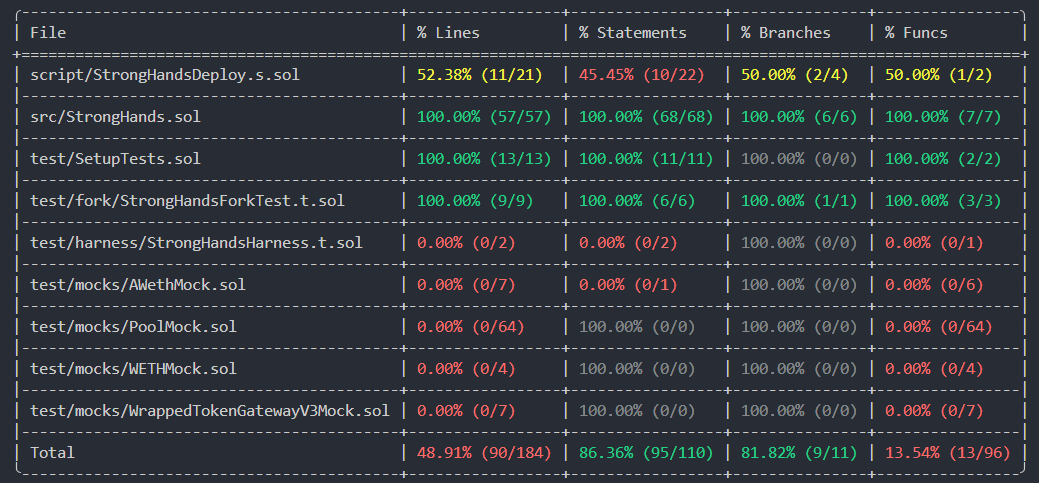
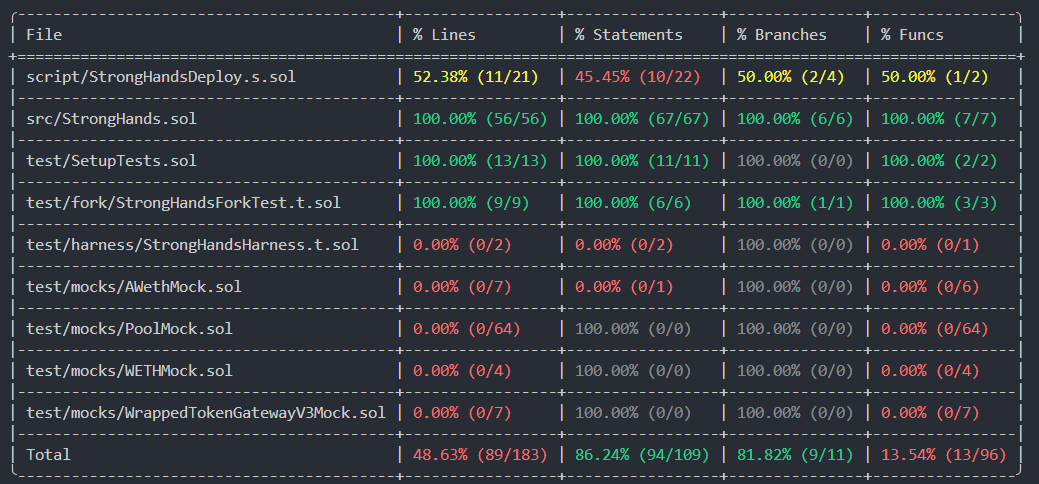
removed extra variable and changed address

Changed region(s): [[0.0, 0.0, 1.0, 0.9938]]

diff --git a/README.md b/README.md
@@ -1,6 +1,6 @@
 # Sepolia address
 
-https://sepolia.etherscan.io/address/0x9230b96720a66913aa69d076dd94105a81f82a40#code
+https://sepolia.etherscan.io/address/0xa886c5f447ad0dca5034f71badfb4148ad29badc#code
 
 # Installation
 
